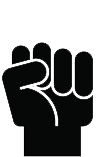
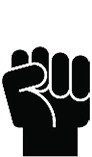
layout finalizado

Changed region(s): [[0.0217, 0.2548, 0.9783, 0.8408]]

diff --git a/stylesheet.css b/stylesheet.css
@@ -131,8 +131,22 @@ div#rules img {
 
 label {
     display: inline-block;
-    margin: 34px 34px 20px 34px;
+    text-align: center;
+    margin: 30px 14px 20px 14px;
     cursor: pointer;
+    width: 100px;
+    height: 100px;
+}
+
+label img {
+    text-align: center;
+}
+
+label:hover {
+    background-color: var(--gray);
+    border-radius: 15px;
+    transition-duration: .2s;
+    
 }
 
 
